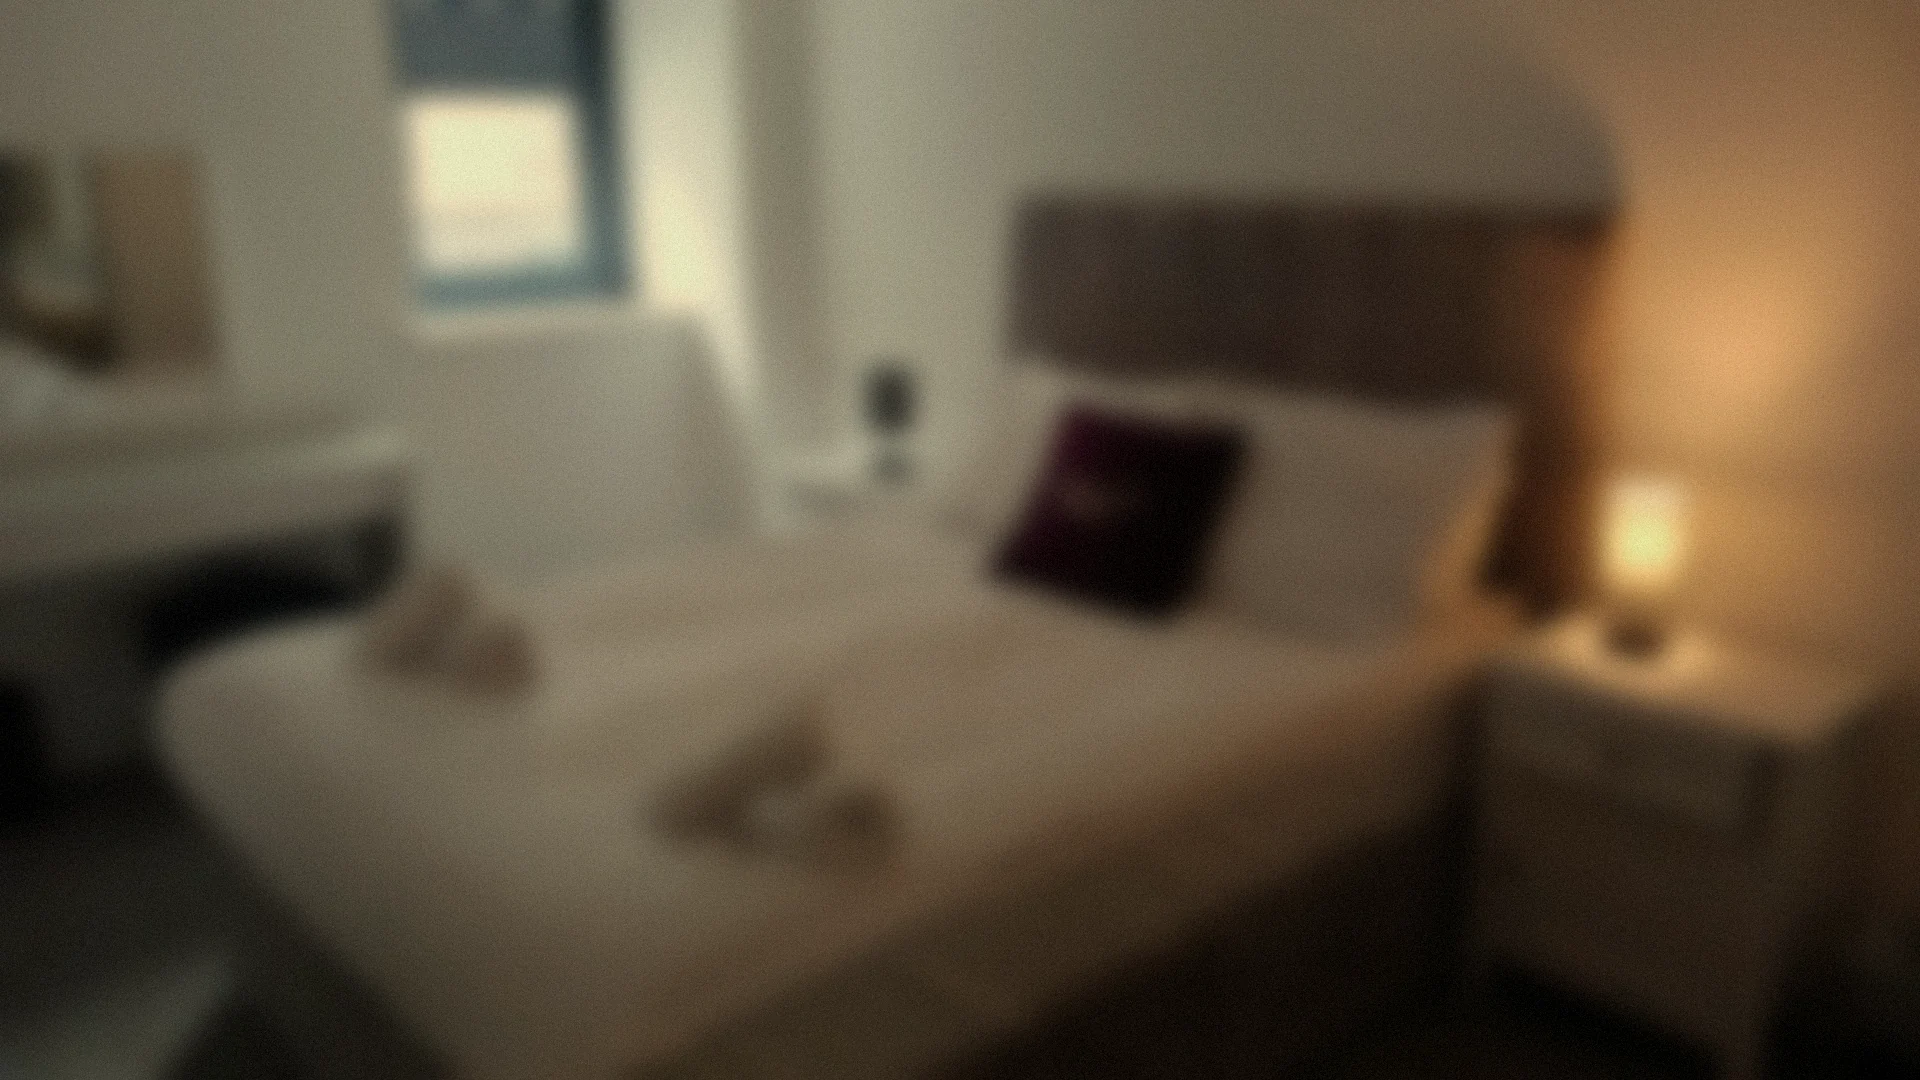
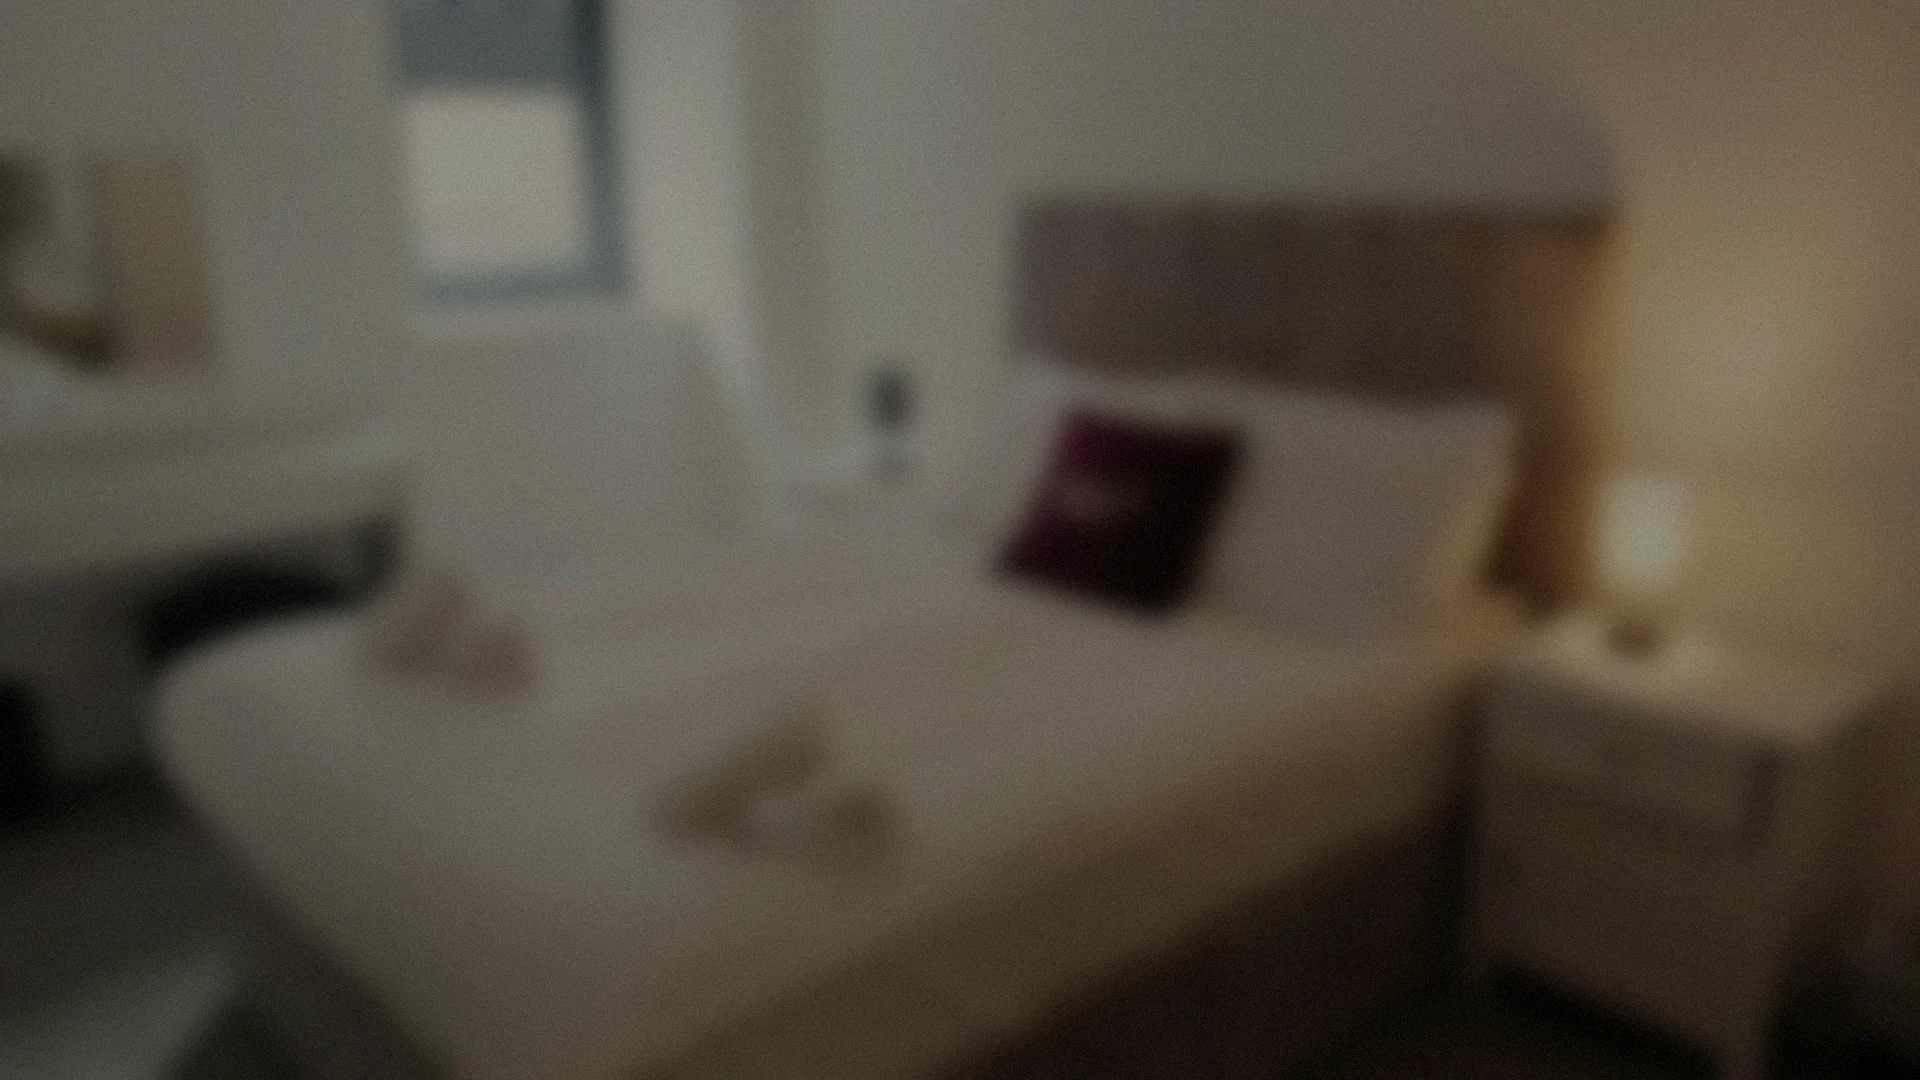
Console room: smooth highlight curve on the three candidates; computed contrast recorded

Changed region(s): [[0.1875, 0.0, 0.5312, 0.6722], [0.7812, 0.0306, 1.0, 0.6722]]

diff --git a/docs/design/backgrounds/build.py b/docs/design/backgrounds/build.py
@@ -15,6 +15,10 @@ for name,(i,target,flip,grade) in C.items():
         g=im.resize((64,36)).convert('L').tobytes(); m=sum(g)/len(g)/2.55
         if abs(m-target)<0.7: break
         im=ImageEnhance.Brightness(im).enhance(target/m)
+    # smooth shoulder on the highlights (one curve, per channel), so the brightest part of the room cannot lift a
+    # glass panel above what text can take; shadows and mid-tones are nearly unchanged
+    A,B=float(os.environ.get('KA','236')),float(os.environ.get('KB','150'))
+    im=im.point([min(255,int(round(A*v/(v+B)))) for v in range(256)]*3)
     for wd in (2560,1920,960):
         o=im.resize((wd,wd*9//16),Image.LANCZOS)
         n=Image.effect_noise(o.size,4.4).convert('RGB')   # fine grain so the soft gradients do not band

diff --git a/docs/design/ASSETS.md b/docs/design/ASSETS.md
@@ -53,7 +53,13 @@ visits, so nothing was taken from them directly.
 
 Edits, the same for all three (`docs/design/backgrounds/build.py`): centre crop to 16:9, resize to 3840×2160, Gaussian
 blur radius 26 (so the room is out of focus and no text, logo or hard line survives), brightness set to an average of
-34–36%, fine grain added so the soft gradients do not band, WebP quality 86 at 2560, 1920 and 960 wide. The lamp and
+34–36%, one smooth highlight curve (`236·v/(v+150)` per channel, so the brightest part of the room cannot lift a
+glass panel above what text can take; the average ends at 31–34%), fine grain added so the soft gradients do not band, WebP quality 86 at 2560, 1920 and 960 wide. The lamp and
 suite candidates are also warmed (red ×1.08, blue ×0.80–0.82); the hall is not. After the 16:9 crop every source is still larger than
 3840×2160 (the smallest is the hall at 4000×2250), so nothing is upscaled.
+
+Computed from the files, not yet from a browser (photo fitted to 1440×852, blurred 22px, brightest point, scrim .35;
+`saturate(140%)` not modelled): third-level text on the lightest Overview panel reads 4.37 over the hall, 4.36 over the
+lamp and 4.09 over the suite, against 4.39 for `room-warm.webp` by the same sum (which measured 4.66 in the browser).
+On the smoked glass of other pages the lowest is the danger colour: 4.86, 4.86 and 4.64.
 
